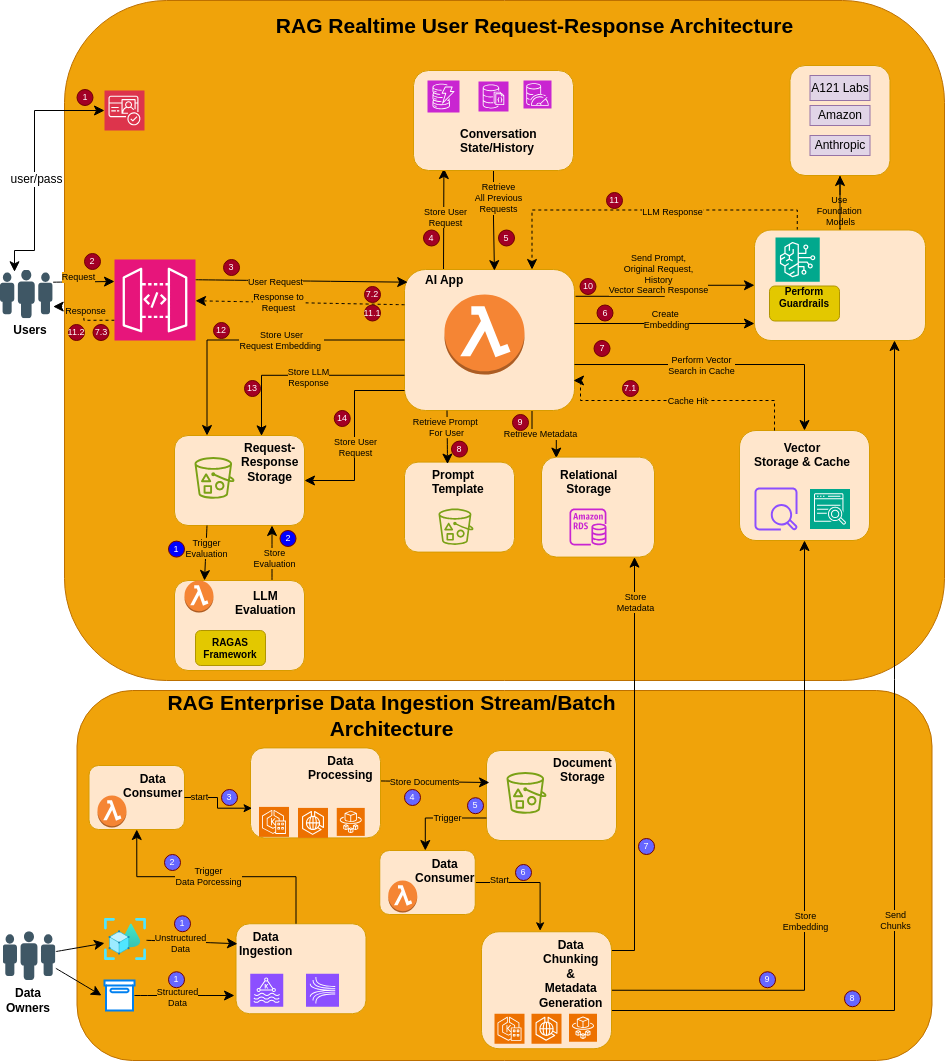
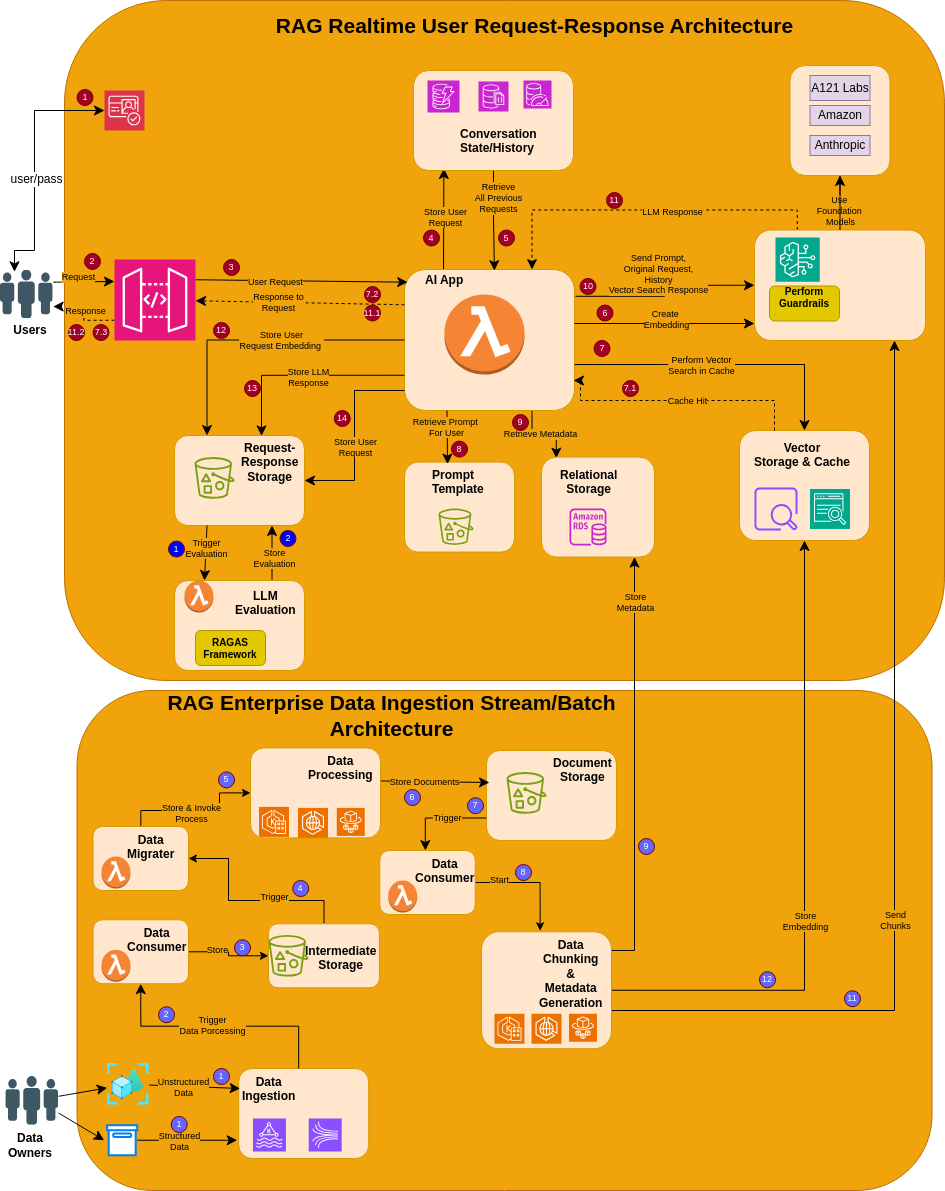
python added for msk to s3

diff --git a/bedrock/src/msk_to_s3.py b/bedrock/src/msk_to_s3.py
@@ -1,0 +1,38 @@
+import boto3
+import base64
+from datetime import datetime
+
+class MSKToS3Handler:
+    def __init__(self, s3_bucket):
+        self.s3_client = boto3.client('s3')
+        self.s3_bucket = s3_bucket
+
+    def lambda_handler(self, event, context):
+        for record in event['records']:
+            topic_arn = record['eventSourceARN']
+            topic_name = self.extract_topic_name(topic_arn)
+            file_content = base64.b64decode(record['value'])  # Assuming the payload is base64 encoded
+            file_name = self.generate_file_name(topic_name)
+            
+            self.upload_to_s3(file_name, file_content, topic_name)
+
+    def extract_topic_name(self, topic_arn):
+        # Extract the topic name from the ARN
+        return topic_arn.split(':')[-1]
+
+    def generate_file_name(self, topic_name):
+        # Generate a unique file name using the topic name and current timestamp
+        # This is a placeholder implementation. Adapt as necessary.
+        timestamp = datetime.now().strftime("%Y-%m-%d-%H-%M-%S")
+        return f"{topic_name}/{timestamp}.bin"
+
+    def upload_to_s3(self, file_name, file_content, topic_name):
+        try:
+            self.s3_client.put_object(Bucket=self.s3_bucket, Key=file_name, Body=file_content)
+            print(f"Successfully uploaded {file_name} to S3 bucket {self.s3_bucket}.")
+        except Exception as e:
+            print(f"Failed to upload {file_name} to S3. Error: {e}")
+
+# Example usage:
+# handler = MSKToS3Handler('your-s3-bucket-name')
+# handler.lambda_handler(event, context)
